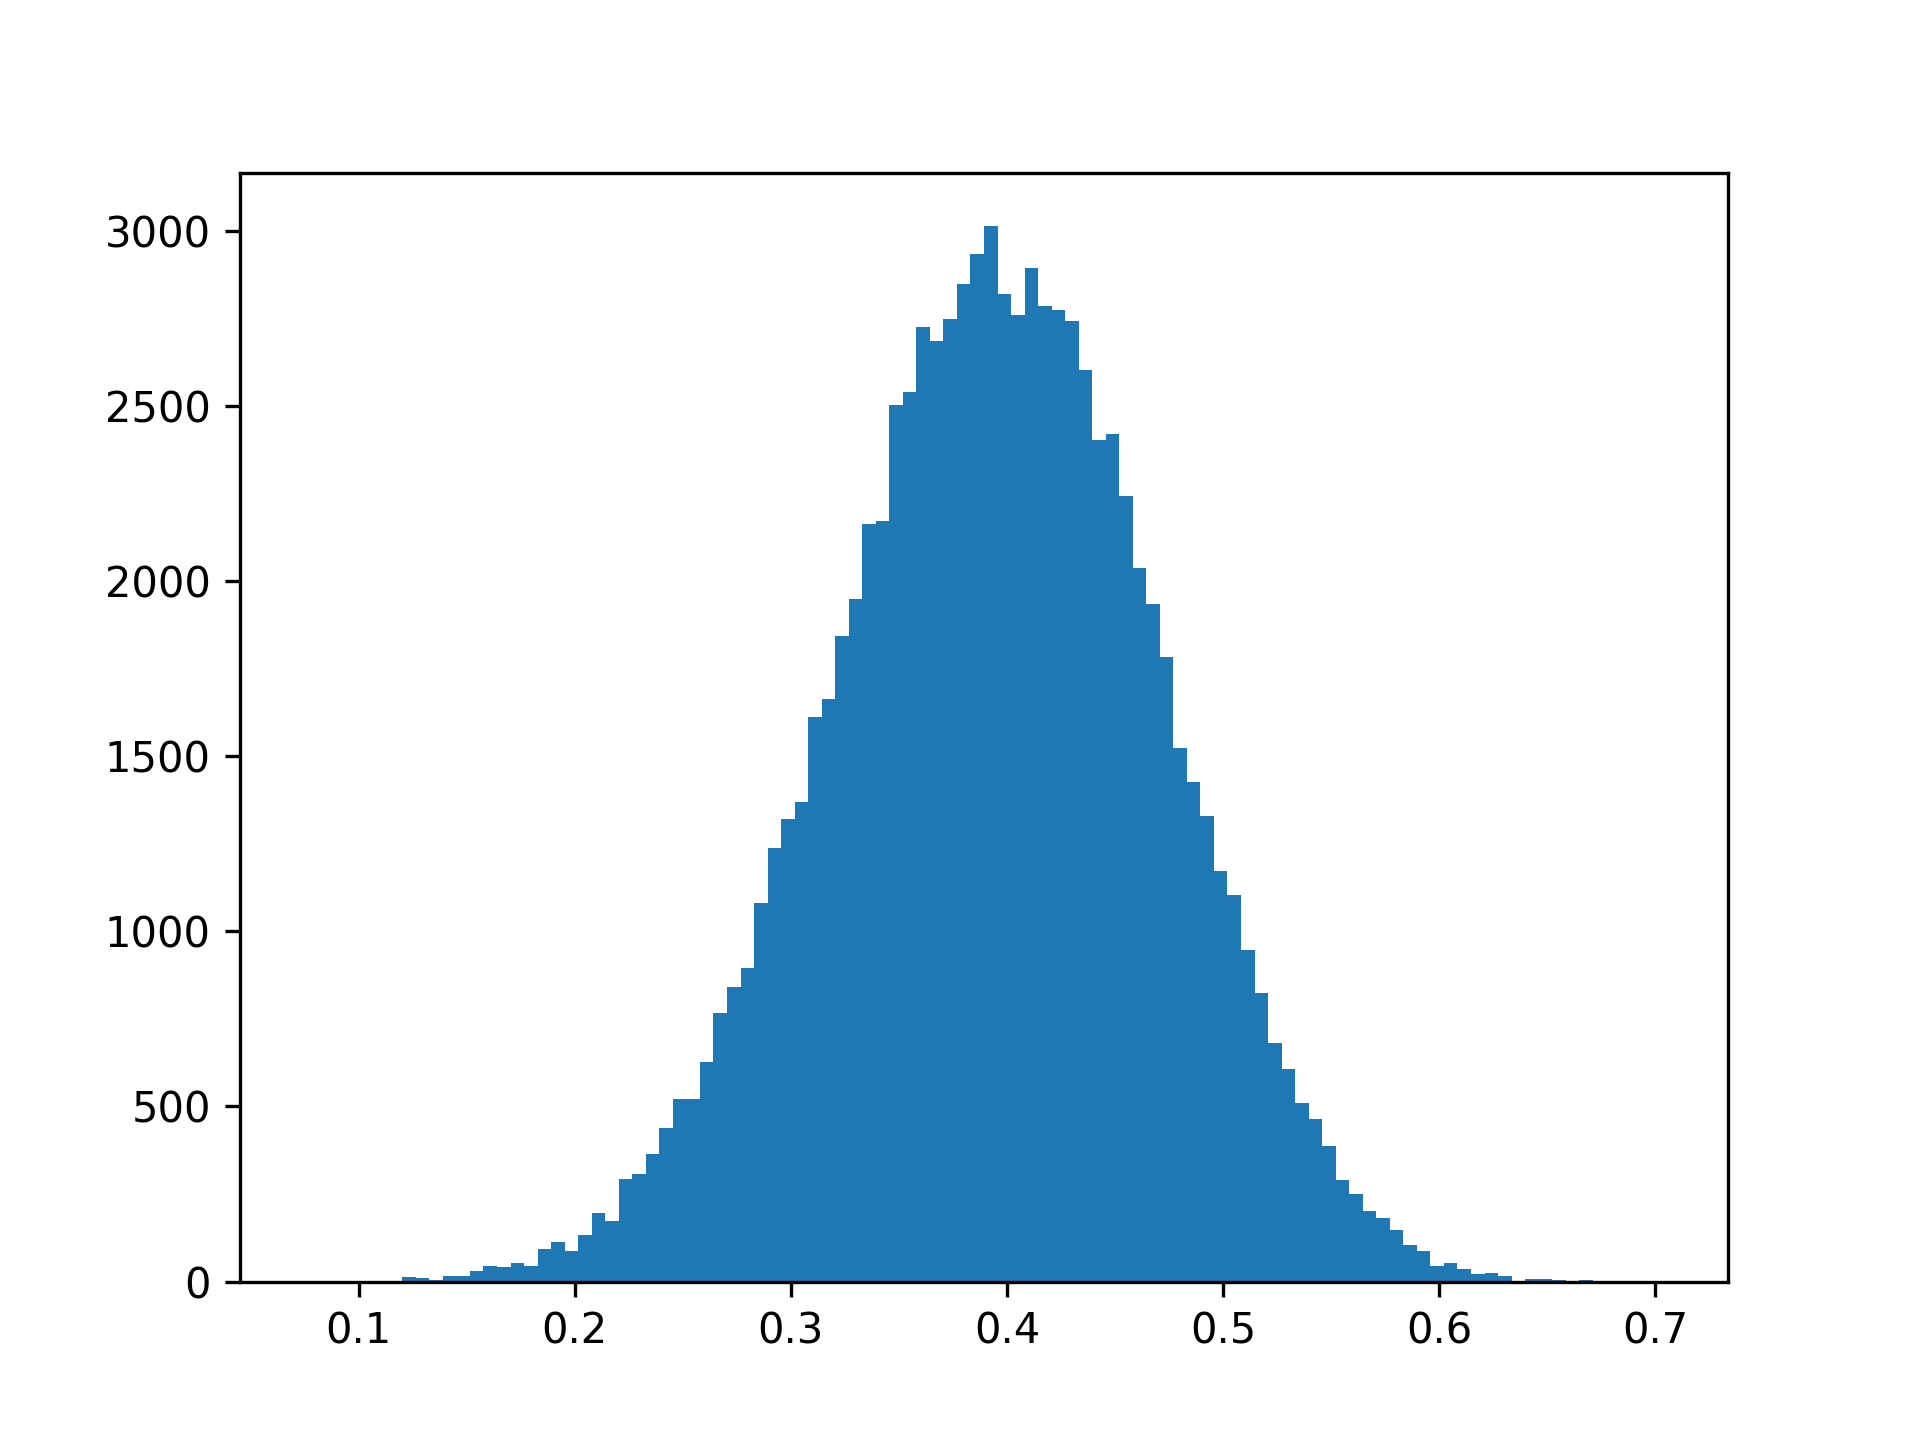
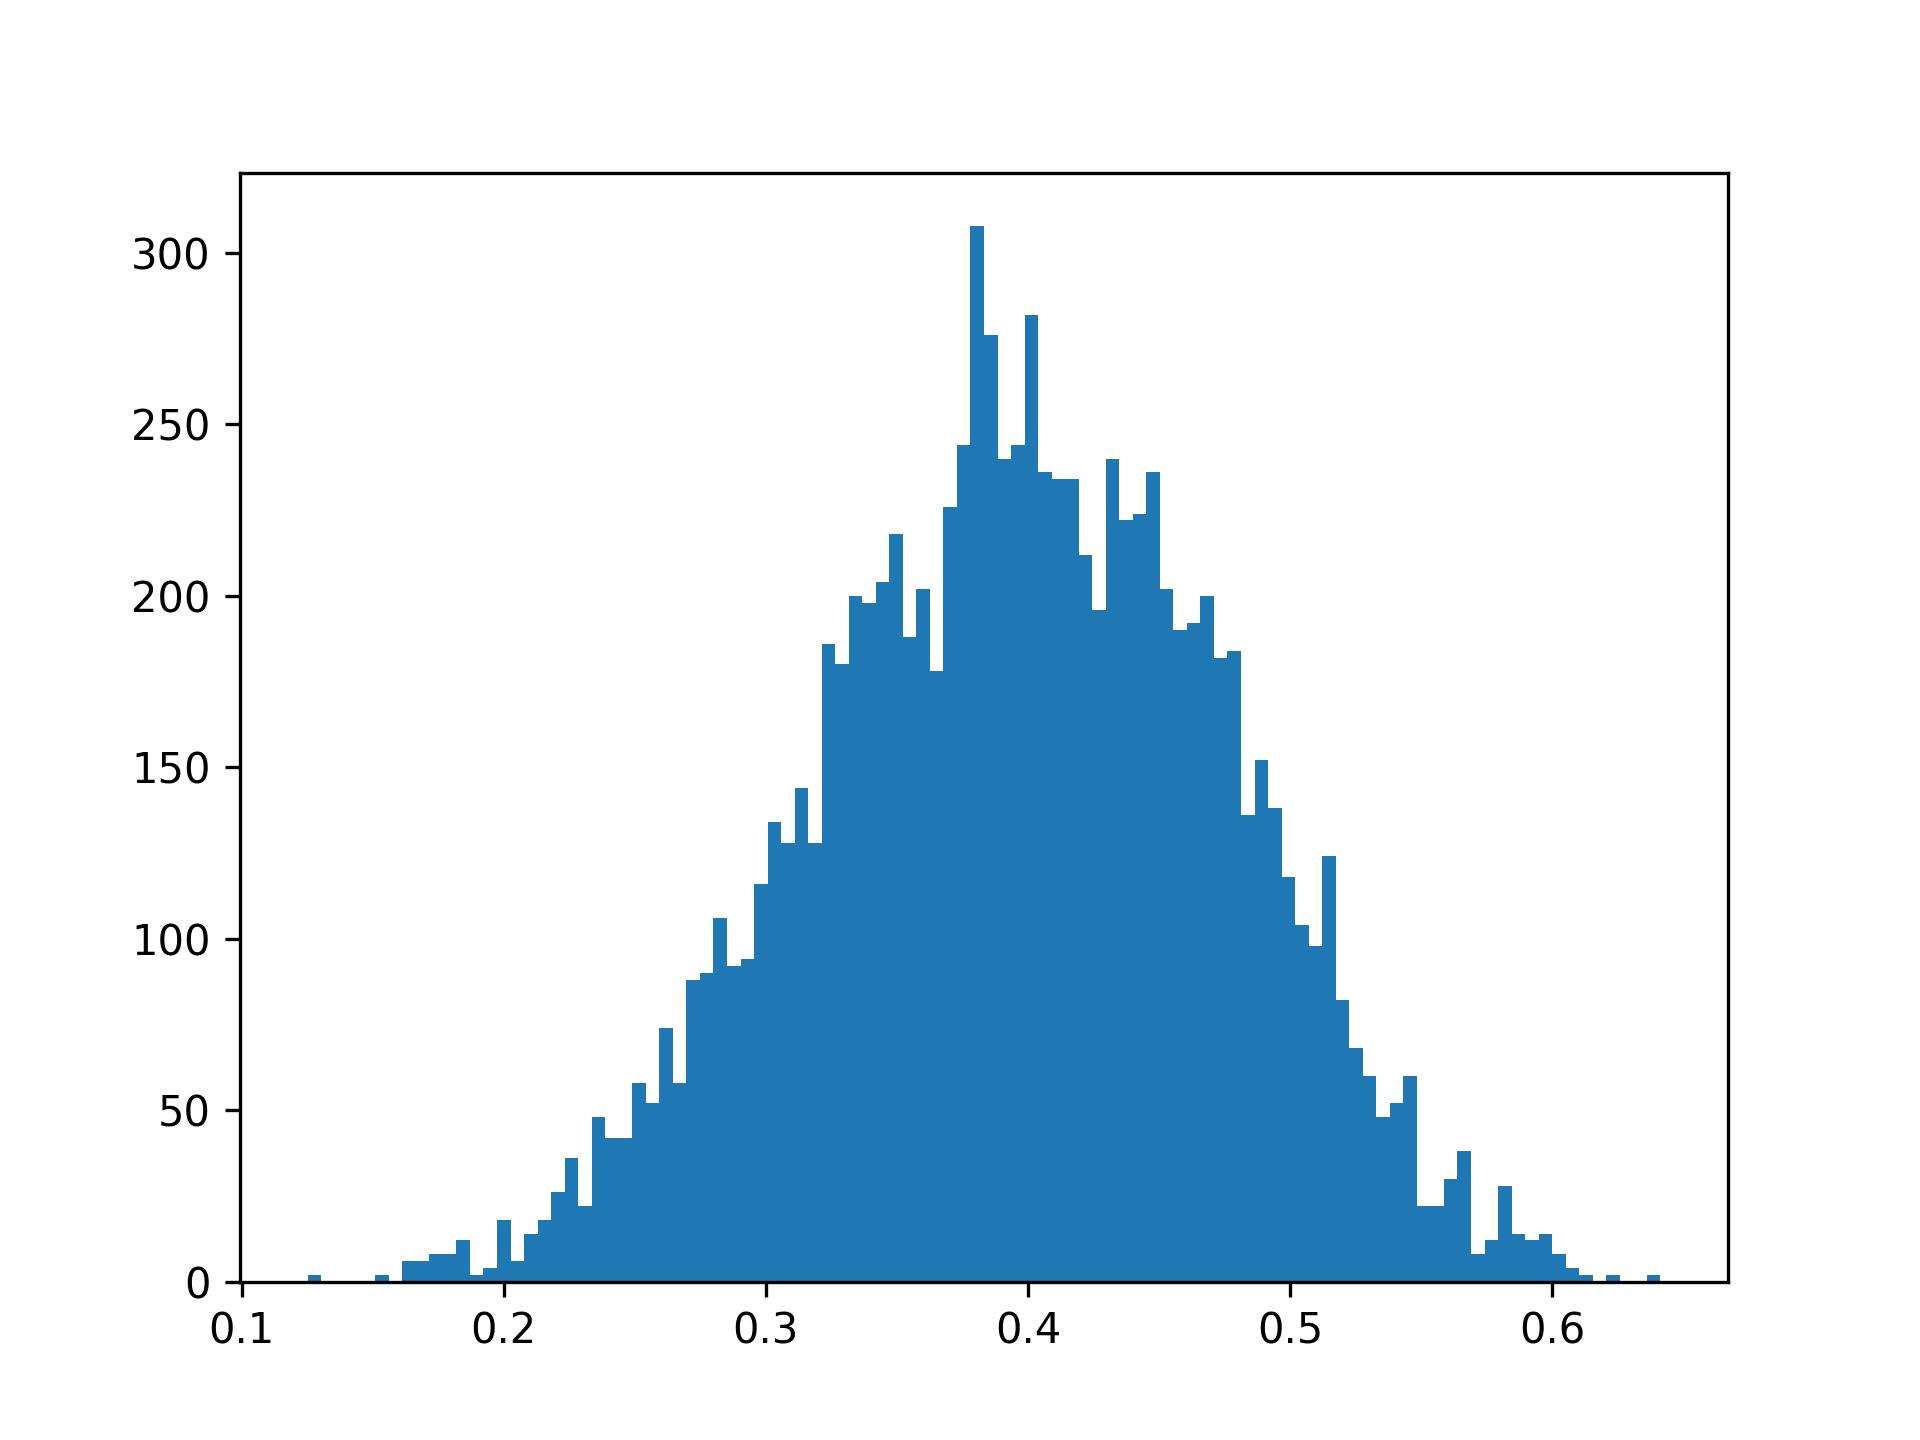
ex 45 done and k changed to 100 in 44

diff --git a/z45.py b/z45.py
@@ -1,0 +1,14 @@
+def S(s,k,m):
+    return 1 - (1 - s**k)**m
+
+eps = 0.0105
+
+if __name__ == "__main__":
+    for k in range(100):
+        for m in range(1000):
+            S1 = S(1/3,k,m)
+            S2 = S(1/2,k,m)
+            d1 = abs(S1 - 1/10)
+            d2 = abs(S2 - 9/10)
+            if d1 < eps and d2 < eps:
+                print("k = {}, m = {}, S1 = {}, S2 = {}".format(k,m,S1,S2))

diff --git a/z44.py b/z44.py
@@ -18,7 +18,7 @@ def getDists(points, n):
     
 if __name__ == "__main__":
     N = [1,10,100,1000]
-    k = 300
+    k = 100
 
     for n in N:
         plt.hist(getDists(getPoints(n,k), n), bins=100)
